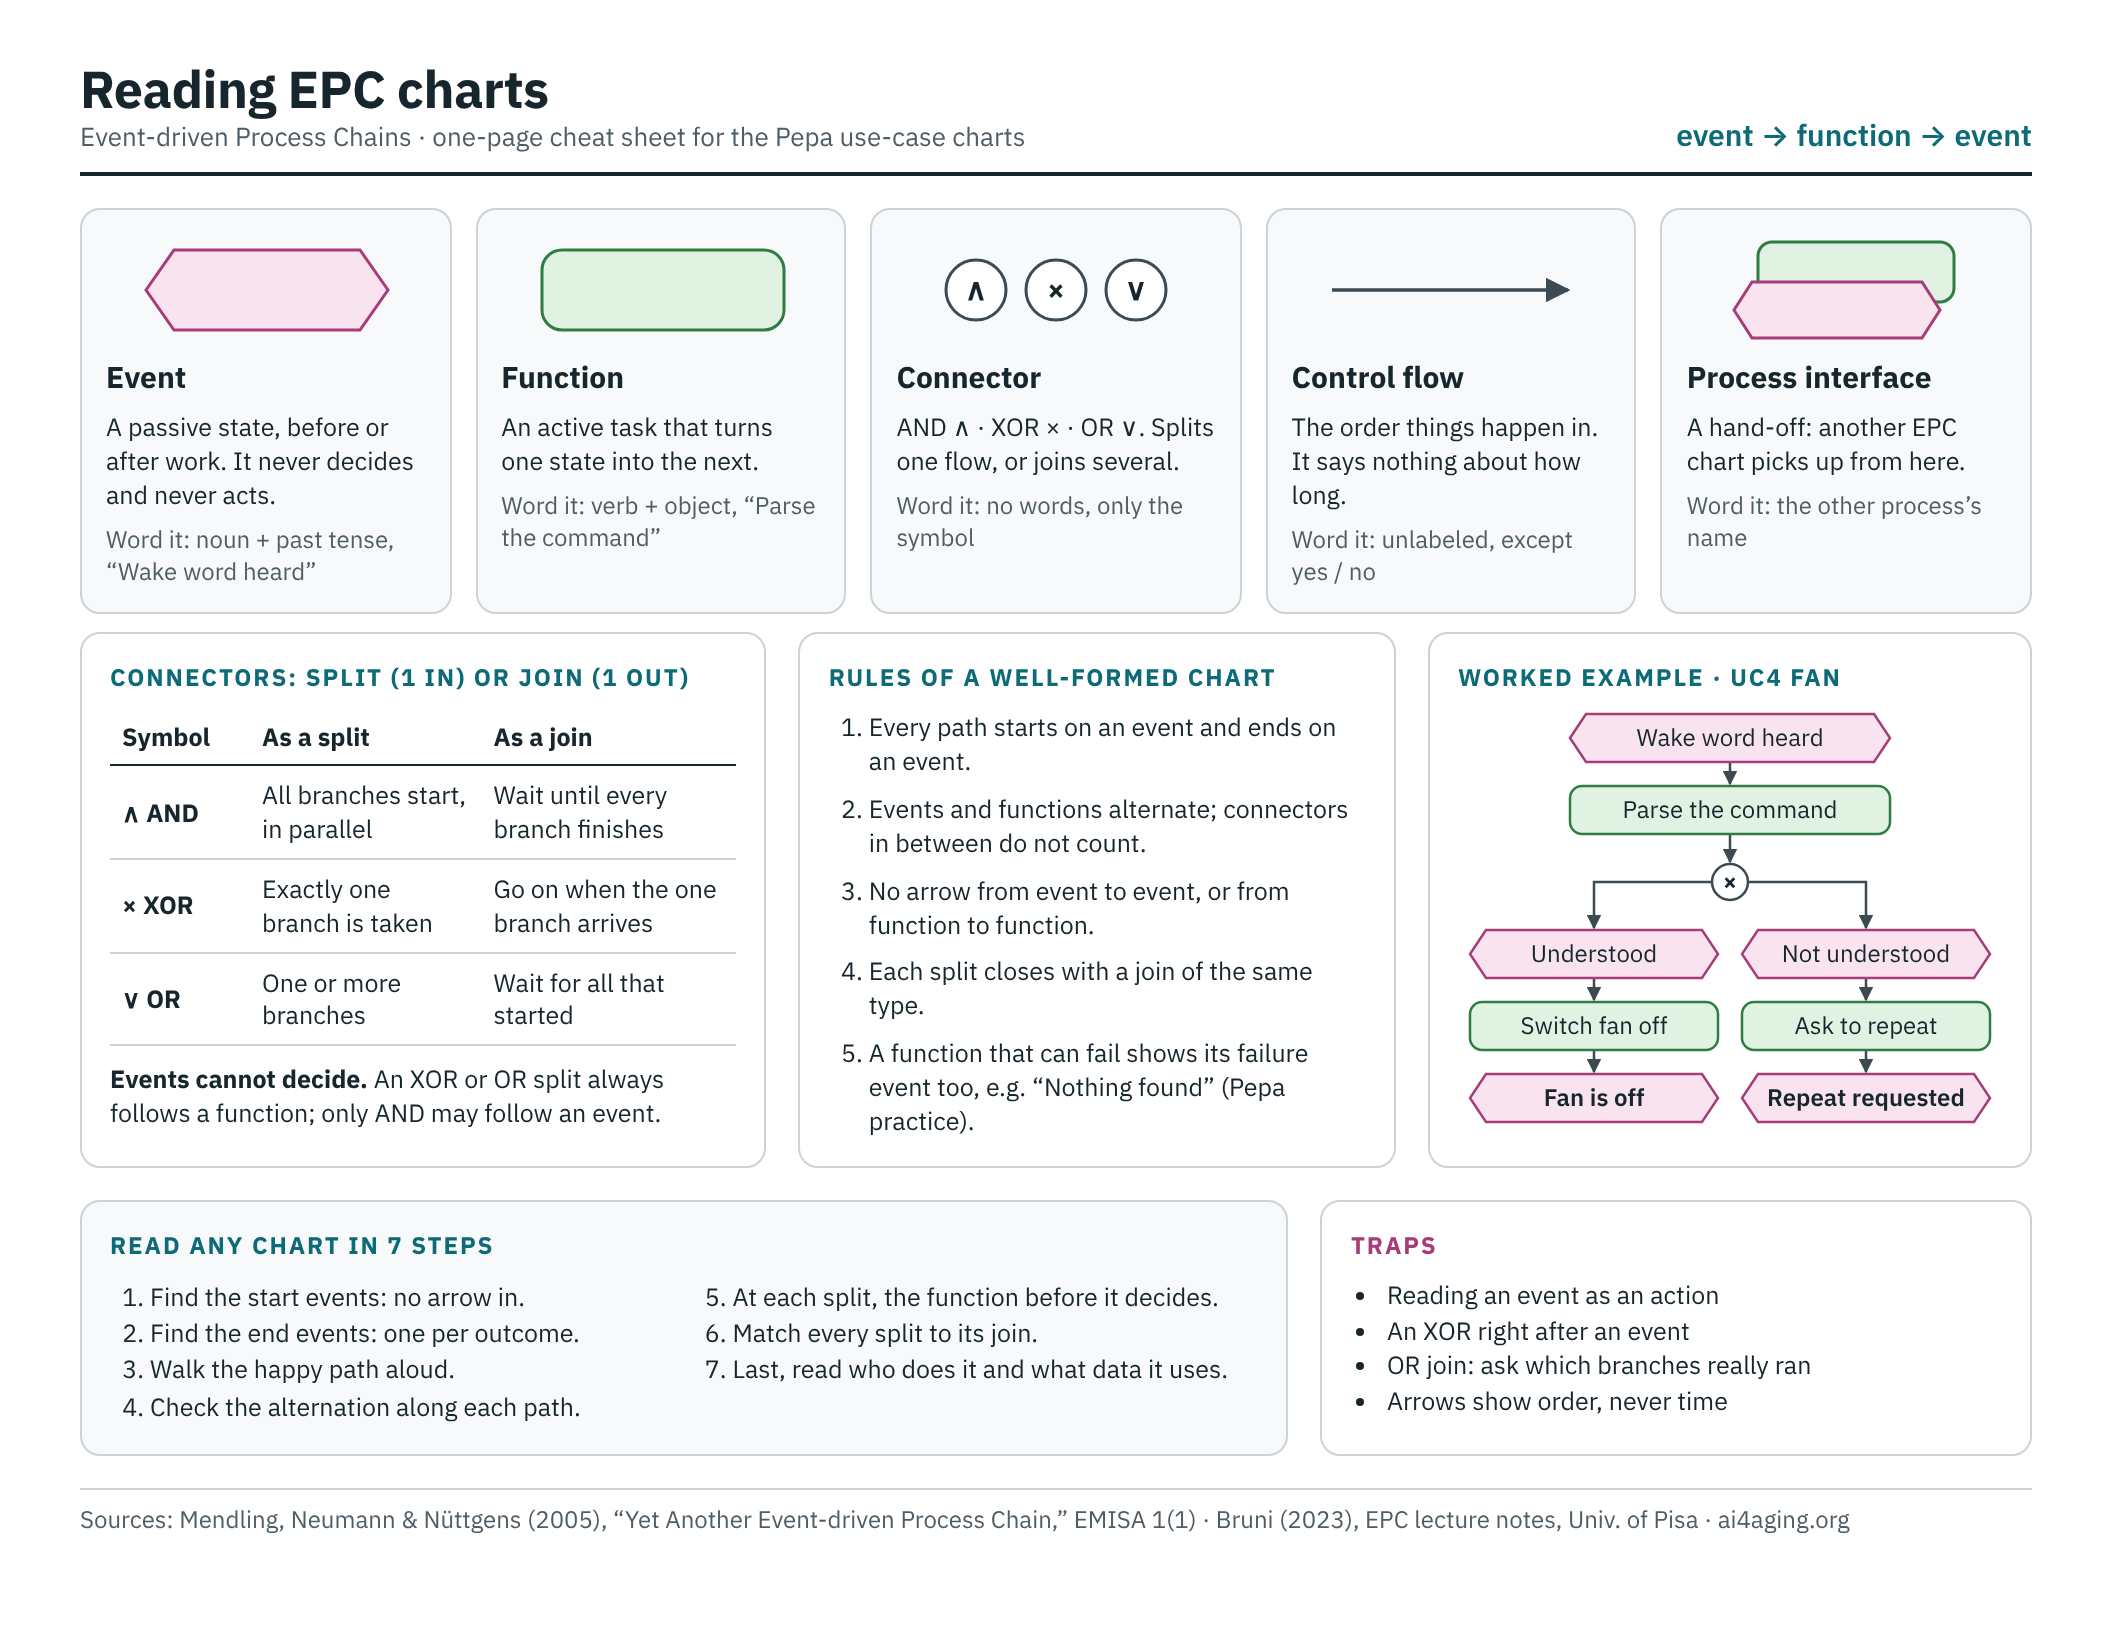
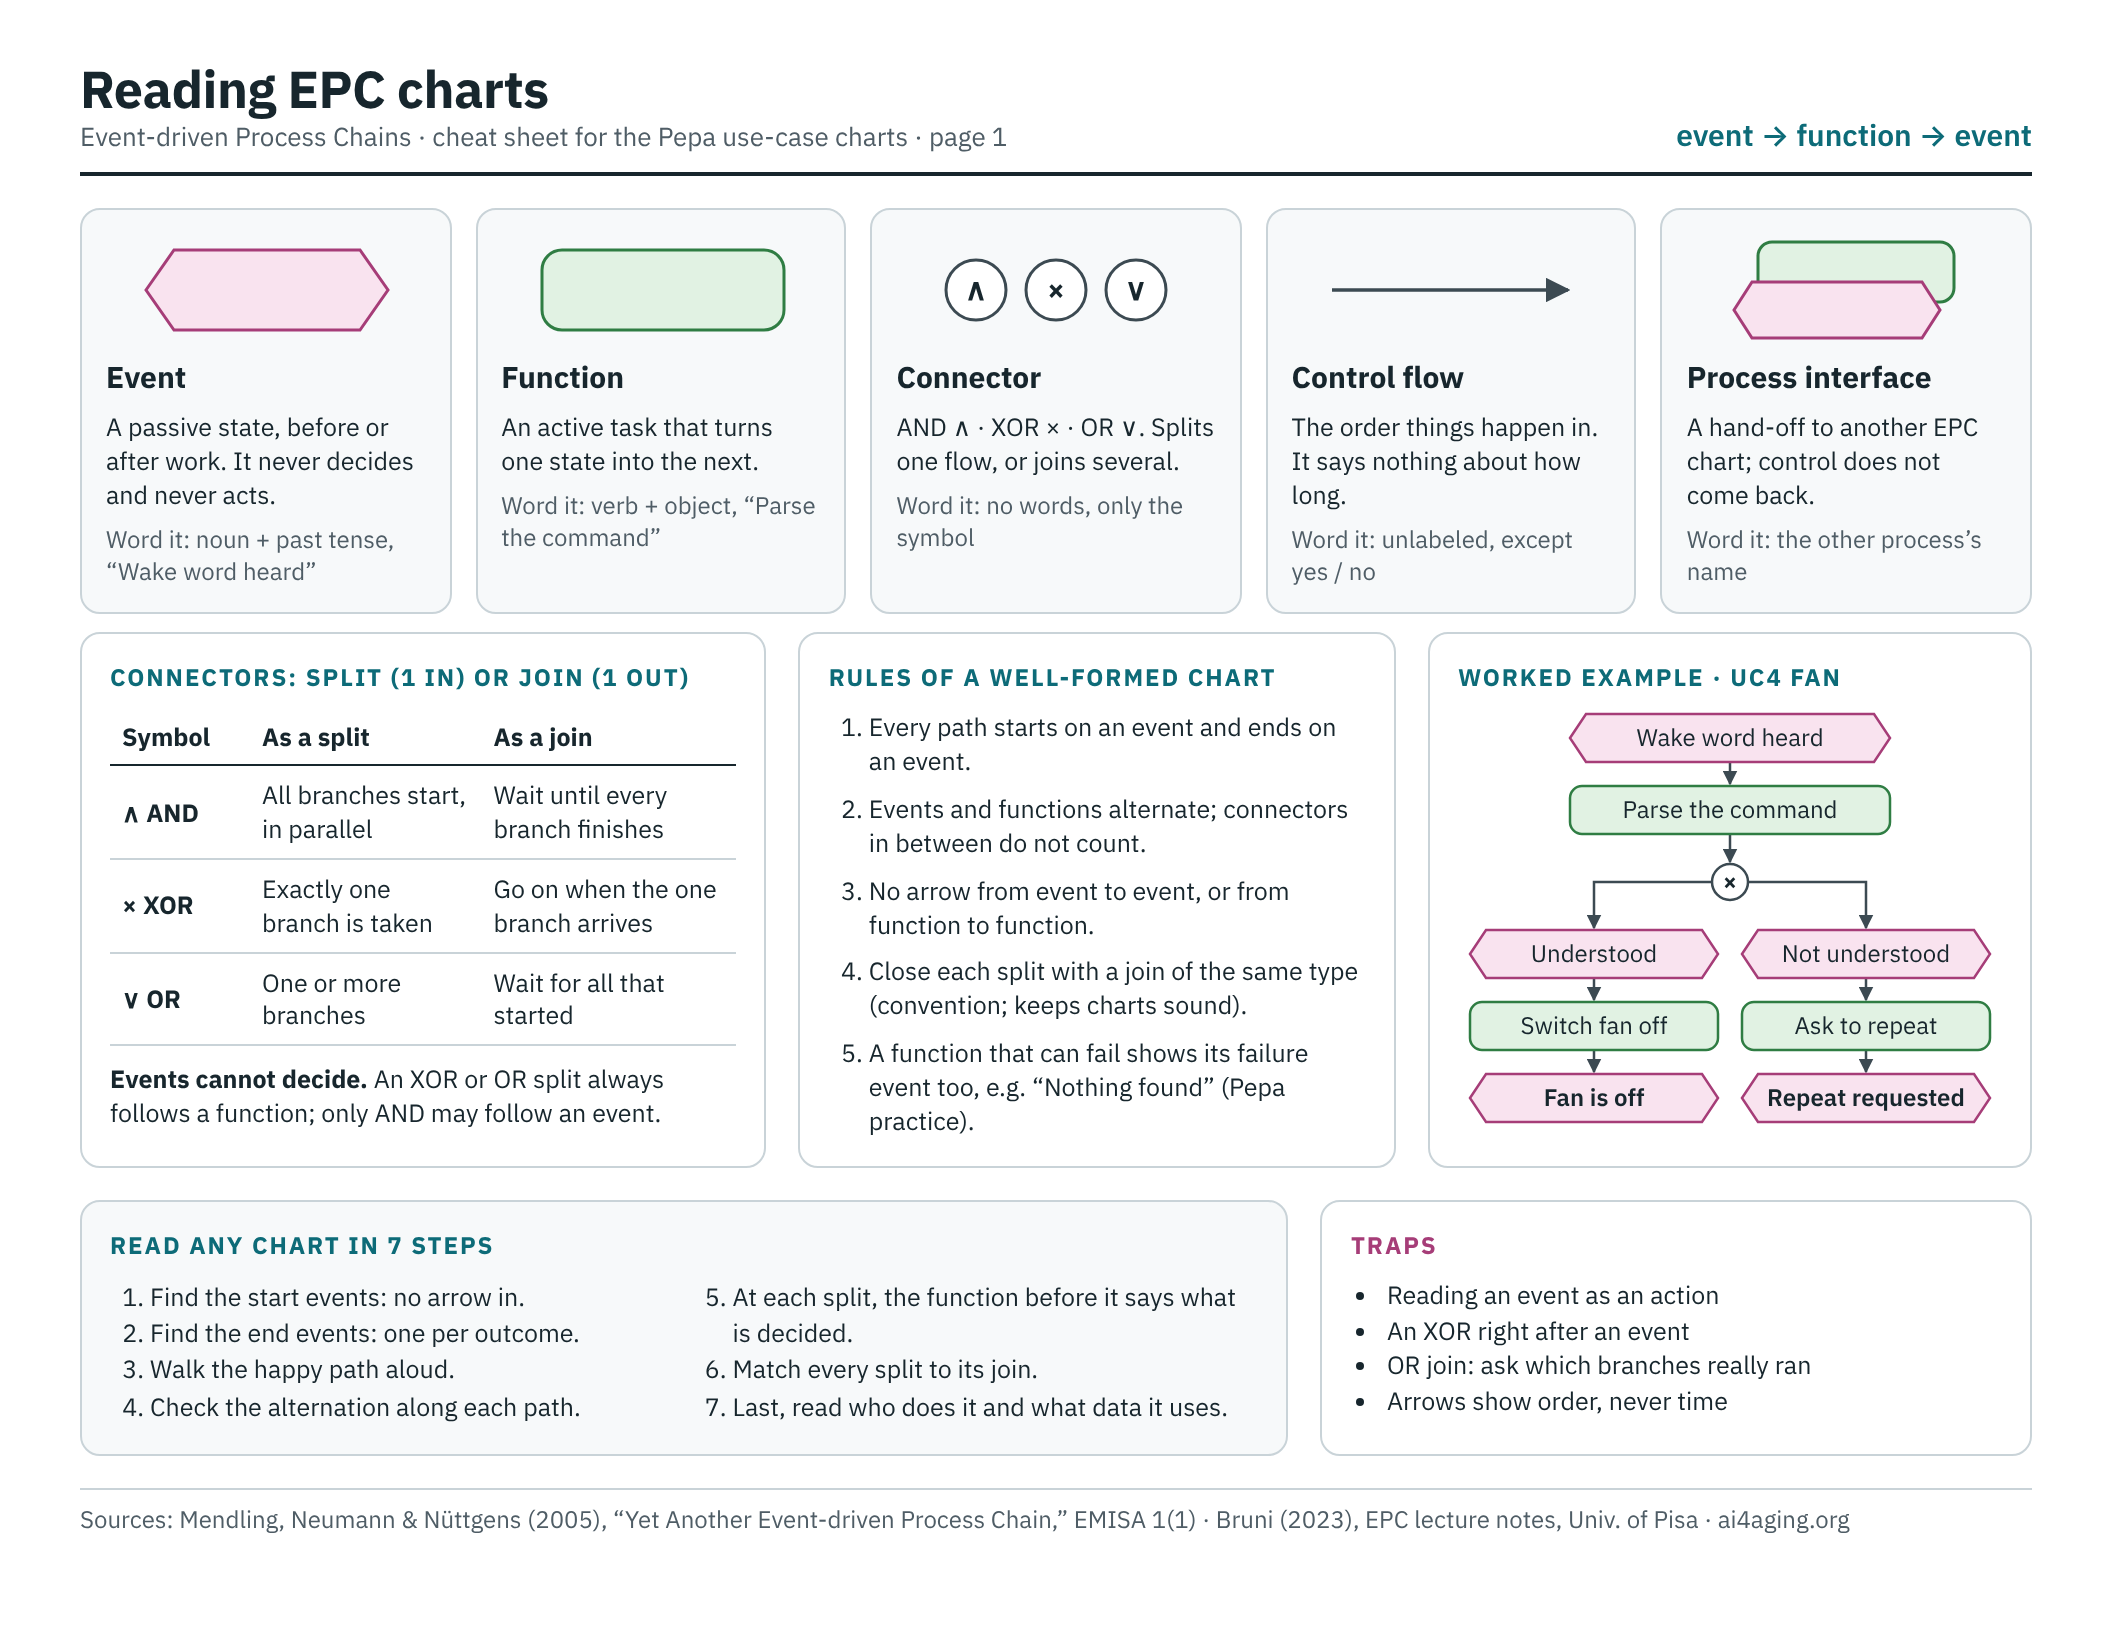
Reference: apply outside-review corrections to the EPC pages
From three outside reviews:
- Credit EPC to Keller, Nüttgens and Scheer (1992); ARIS as the framework
- Events-cannot-decide stated as the standard rule, which Pepa enforces;
  AND split after an event explained
- Matched split/join pairs reworded as a convention that keeps charts sound
- New note: an XOR join expects one branch; behaviour with several is disputed
- Start events, step 5 (what is decided vs who decides), process interface
  vs lower-level EPC (control returns or not), ARIS "smallest organizational
  unit", satellite attachment as the convention taught, solid vs dashed arrows,
  "process path" synonym
- Pepa conventions labelled as such: "decides on" as authority, the
  negative-outcome completeness rule
- Cheat sheet: two-page wording, rule 4 and step 5 updated, PDF and PNGs
  regenerated

Claude-Session: https://claude.ai/code/session_01GPy8ppWTE5Lx2JY8fmcwdP

diff --git a/src/content/docs/reference/reading-epc-charts.md b/src/content/docs/reference/reading-epc-charts.md
@@ -9,13 +9,13 @@ draft: false
   <span class="a4a-badge ai-generated">AI Generated</span>
 </p>
 
-Each of the eight [use cases](/general/usecases/) has been drawn as an EPC chart, and those charts are the starting point for Pepa's specs. This page is how to read them. The one-page [EPC Cheat Sheet](/reference/epc-cheat-sheet/) has the same content condensed for printing.
+Each of the eight [use cases](/general/usecases/) has been drawn as an EPC chart, and those charts are the starting point for Pepa's specs. This page is how to read them. The two-page [EPC Cheat Sheet](/reference/epc-cheat-sheet/) has the same content condensed for printing.
 
 ## What an Event-driven Process Chain (EPC) is
 
 An Event-driven Process Chain (EPC) reads as a chain of **states** and **actions**: something becomes true (an event), someone or something does work (a function), and that work makes something else true. Read it top to bottom; every path starts and ends on an event.
 
-It came out of ARIS (Scheer, early 1990s) and was used to document the SAP reference model. It fits the eight ai4aging.org use cases because each scenario is a trigger ("José says *apaga el abanico*"), a short run of Pepa work, and a set of possible outcomes (done, not understood, nothing found).
+It was introduced by Keller, Nüttgens and Scheer in 1992 and became widely used through the ARIS modelling framework, including for the SAP reference model. It fits the eight ai4aging.org use cases because each scenario is a trigger ("José says *apaga el abanico*"), a short run of Pepa work, and a set of possible outcomes (done, not understood, nothing found).
 
 ## The five symbols
 
@@ -26,8 +26,8 @@ Shape tells you the role; read the shape before the words.
 | Event | Hexagon | A passive state: a precondition before work, or the result after it. It takes no decision and does no work. | Noun + past participle: "Wake word detected" |
 | Function | Rounded rectangle | An active task that turns one state into another. | Verb + object: "Transcribe utterance" |
 | Connector | Small circle with ∧, × or ∨ | Splits one flow into several, or joins several into one. | AND, XOR or OR; no words |
-| Control flow | Arrow | The order in which things happen. | No words |
-| Process interface | Rectangle stacked on a hexagon | A jump to another EPC (another chart picks up from here). | The other process's name |
+| Control flow | Arrow | The order in which things happen. Solid in ARIS; some textbooks dash it, and the dash means nothing. | No words |
+| Process interface | Most tools: a function shape in front of an event shape | A hand-off to another EPC at the same level; control does not come back. Older ARIS texts call it a process path. | The other process's name |
 
 Extended EPCs (eEPC, the ARIS flavour) also hang side symbols off a function: an ellipse for the **organizational unit** that does it, a plain rectangle for the **information object** it reads or writes. They tell you *who* and *with what*, not *when*; the flow is still events, functions and connectors. Pepa's charts need them; they get [their own section](#extended-epc-eepc-who-with-what-under-which-rules) below.
 
@@ -41,18 +41,19 @@ A connector with one arrow in and several out is a **split**; several in and one
 | XOR × | Exactly one branch is taken. | Continue as soon as the one active branch arrives. |
 | OR ∨ | One or more branches are taken. | Wait for every branch that was actually started. |
 
-Two rules make connectors easier to read:
+Three rules make connectors easier to read:
 
-- **Events cannot decide.** An XOR or OR split always sits right after a *function* (the function made the choice), never right after an event. An AND split may follow either.
-- **Splits and joins come in matched pairs.** A branch opened by an XOR should close on an XOR. A mismatched pair (XOR split closed by AND join) is a modelling error: the AND waits forever for branches that never ran.
+- **Events cannot decide.** An XOR or OR split always sits right after a *function* (the function made the choice), never right after an event. This is the standard EPC rule, and Pepa enforces it strictly. An AND split may follow either; after an event it means one event starts several functions in parallel, which is allowed but rare.
+- **Match splits and joins.** Closing each split with a join of the same type is a convention, not required syntax, but it keeps a chart sound. A mismatched pair (XOR split closed by AND join) can deadlock: the AND waits forever for branches that never ran.
+- **An XOR join expects one branch.** If more than one branch can arrive at it, the chart has a problem; the literature disagrees on what an XOR join does then.
 
 ## Reading method, step by step
 
-1. **Find the start events.** They are hexagons with no arrow coming in. Several start events joined by a connector mean the process needs several triggers (AND) or any one of them (XOR / OR).
+1. **Find the start events.** They are hexagons with no arrow coming in. When several start events send their arrows into one connector, the process needs all of those triggers (AND) or any one of them (XOR / OR).
 2. **Find the end events.** Hexagons with no arrow going out. Each one is a possible outcome; count them to know how many ways the process can finish.
 3. **Walk the happy path.** Follow arrows from the main start event, taking the most likely branch at each split, and read it aloud as a sentence: *event, so function, so event*.
 4. **Check the alternation.** Along any path, events and functions alternate (connectors sit in between and do not count). Two hexagons or two rounded rectangles in a row means something is missing.
-5. **At each split, name the decision.** Look at the function just before it: that is who decides. Read the events right after it as the possible answers.
+5. **At each split, name the decision.** The function just before it says what is being decided; in an eEPC, its *decides on* line says who has the authority. Read the events right after the split as the possible answers.
 6. **Close every split.** Find the matching join and confirm it has the same symbol.
 7. **Then read the side symbols.** Who decides, who carries each function out, what data and software it uses, and which rule binds it.
 
@@ -66,12 +67,12 @@ This chart is an illustration of the method, drawn for this page; it is not one 
 
 ## Extended EPC (eEPC): who, with what, under which rules
 
-A plain EPC says *what happens, in what order*. An extended EPC (eEPC), the ARIS flavour, hangs **satellites** off each function to say *who does it, with what data and software, and under which rules*. Satellites attach to functions only, never to events or connectors, and they never change the flow: read the chain first, then the satellites.
+A plain EPC says *what happens, in what order*. An extended EPC (eEPC), the ARIS flavour, hangs **satellites** off each function to say *who does it, with what data and software, and under which rules*. In the eEPC convention taught here, satellites attach to functions only, never to events or connectors, and they never change the flow: read the chain first, then the satellites.
 
 | Satellite | Usual look (varies by tool) | Question it answers | Definition, in short |
 | --- | --- | --- | --- |
 | Organizational unit | Ellipse | Which unit does or owns this step? | A unit in the organization's hierarchy. |
-| Role, position, person | Ellipse with a figure or mark | Which kind of actor, or which named one? | Role: a group of people. Position: the smallest unit. Person: one individual. |
+| Role, position, person | Ellipse with a figure or mark | Which kind of actor, or which named one? | Role: a group of people. Position: the smallest organizational unit, not necessarily a person. Person: one individual. |
 | Information carrier, cluster, entity type | Rectangle | What data does the step read or write? | Where knowledge or data is kept; a cluster groups related entity types into one business object. |
 | Application system type, application system | Rectangle with bars at the sides | What software supports the step? | Software that supports a function; the *type* is the kind, the *system* is the installed one. |
 | Software robot, attended software robot | Tool-specific icon | Does software carry the step out on its own? | A robot performs the function autonomously; an attended robot needs a human to step in. |
@@ -99,8 +100,8 @@ Data lines have a direction instead of a verb: an arrow *into* the function mean
 ### Keeping a chart readable
 
 - **Function Allocation Diagram (FAD).** When satellites crowd the chart, move each function's satellites to its own small FAD and keep the EPC to events, functions and connectors.
-- **Lower-level EPC.** A function can be detailed by a whole EPC of its own (a drill-down, one level down).
-- **Process interface.** A hand-off sideways to another EPC at the same level.
+- **Lower-level EPC.** A function can be detailed by a whole EPC of its own (a drill-down, one level down). Control returns to the parent chart when it finishes.
+- **Process interface.** A hand-off sideways to another EPC at the same level. Unlike a drill-down, control does not come back.
 
 ## Applying eEPC to Pepa
 
@@ -122,7 +123,7 @@ In Pepa's charts the satellites are where the architecture shows: which arm carr
 
 ### Pepa's rules, read as eEPC checks
 
-When a use-case chart gets its satellites, these are the lines to look for and the lines that must never appear.
+When a use-case chart gets its satellites, these are the lines to look for and the lines that must never appear. In Pepa, *decides on* means the person has authority over the action, which is stronger than ordinary RACI accountability; that is a Pepa convention, not ARIS's definition.
 
 1. **People decide; arms carry out.** An action on the house or the outside world has a person on its *decides on* line. An arm is at most *carries out*.
 2. **Retrieval is not authority.** The Memory Arm and the Knowledge Arm appear as *contributes to*, or as information carriers, never as *decides on* an action.
@@ -144,7 +145,7 @@ Read the chain first: *command understood, so switch the fan off, so the fan is 
 - **Reading an event as a step.** "Fan turned off" is a fact, not an action. If you catch yourself saying *Pepa does X* at a hexagon, the box is mislabeled.
 - **A decision hanging off an event.** An XOR right after an event hides who decided. Look for the missing function.
 - **The OR join.** It waits for "every branch that was started", which the join cannot see locally. Researchers spent a decade formalizing this; in practice, treat an OR join as a flag to ask *which branches really ran?*
-- **Missing negative outcome.** A function that can fail but has only one event after it is incomplete. The "nothing found" step in [UC5, Knowledge Management](/general/usecases/#5-knowledge-management) is exactly this check.
+- **Missing negative outcome.** In Pepa's use-case specs, a function that can fail but has only one event after it is incomplete. This is a Pepa completeness rule, not EPC syntax. The "nothing found" step in [UC5, Knowledge Management](/general/usecases/#5-knowledge-management) is exactly this check.
 - **Time is not drawn.** EPCs show order, not duration. "Shower running 20 minutes" has to be stated in an event's wording; the arrow says nothing about how long.
 - **A satellite drawn as a step.** An arm, a store or Home Assistant in the flow line, between events, means a satellite was drawn as a function. Move it to the side and connect it with a verb.
 
